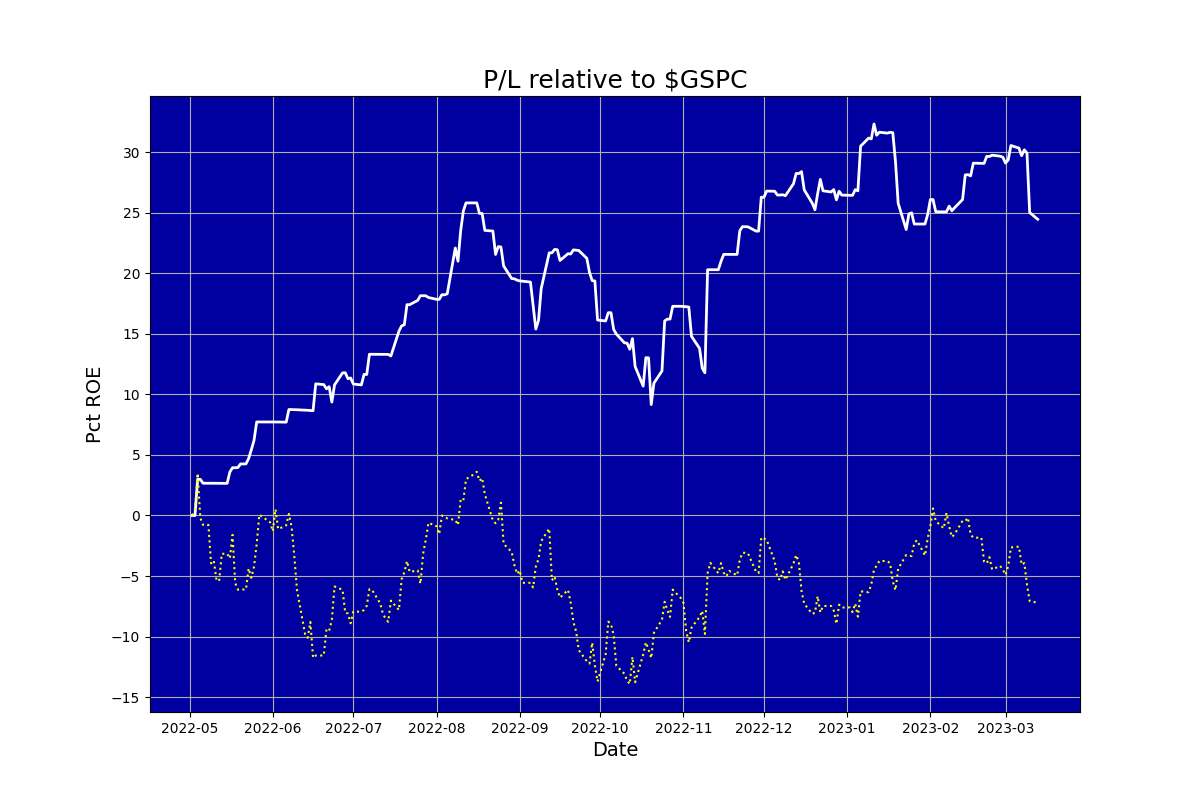
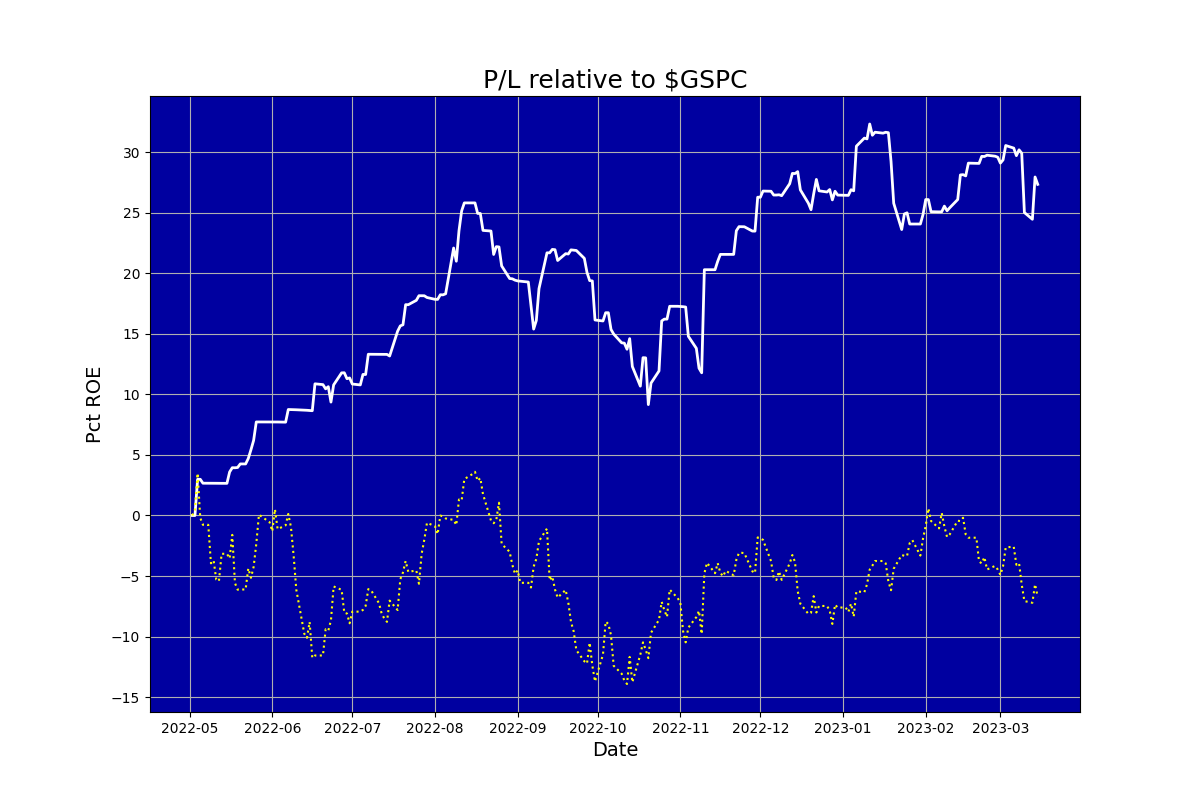
Updated

diff --git a/ig_report.html b/ig_report.html
@@ -1,1 +1,1 @@
-<html><body><center><h1>Auriel (never knowingly overbought)</h1></center><table cols=2><tr><td><img src=ig_pl.png></td><td><table cols=2><tr><td colspan=2><b><br>Snapshot</b></td></tr><tr><td>Last updated:&nbsp;&nbsp;&nbsp;</td><td>2023-03-13 18:05</td></tr><tr><td>Margin:&nbsp;&nbsp;&nbsp;</td><td>0.45</td></tr><tr><td>Cushion:&nbsp;&nbsp;&nbsp;</td><td>-9979.10</td></tr><tr><td>Last closed trade:&nbsp;&nbsp;&nbsp;</td><td>2023-03-13</td></tr><tr><td colspan=2><b><br>Positions</b></td></tr><tr><td>Mean days to new high:&nbsp;&nbsp;&nbsp;</td><td>11.16</td></tr><tr><td colspan=2><b><br>Trades</b></td></tr><tr><td>Traded days:&nbsp;&nbsp;&nbsp;</td><td>228</td></tr><tr><td>Profitable days pct:&nbsp;&nbsp;&nbsp;</td><td>36.40</td></tr><tr><td>Days beat S&P pct:&nbsp;&nbsp;&nbsp;</td><td>56.68</td></tr><tr><td>Profitable months pct:&nbsp;&nbsp;&nbsp;</td><td>72.73</td></tr><tr><td colspan=2><b><br>Performance</b></td></tr><tr><td>Pct median monthly ROE:&nbsp;&nbsp;&nbsp;</td><td>1.43</td></tr><tr><td>Pct annualised ROE:&nbsp;&nbsp;&nbsp;</td><td>26.82</td></tr><tr><td colspan=2><b><br>Risk</b></td></tr><tr><td>Volatility pct:&nbsp;&nbsp;&nbsp;</td><td>19.54</td></tr><tr><td>Benchmark volatility pct:&nbsp;&nbsp;&nbsp;</td><td>23.39</td></tr><tr><td>Sharpe ratio (RFR 5.0%):&nbsp;&nbsp;&nbsp;</td><td>1.21</td></tr><tr><td>Sortino ratio (RFR 5.0%):&nbsp;&nbsp;&nbsp;</td><td>1.73</td></tr><tr><td>Calmar ratio:&nbsp;&nbsp;&nbsp;</td><td>1.61</td></tr><tr><td>Worst drawdown pct:&nbsp;&nbsp;&nbsp;</td><td>-0.17</td></tr><tr><td>Recovery days from worst drawdown:&nbsp;&nbsp;&nbsp;</td><td>29.00</td></tr><tr><td>Beat benchmark +ve periods pct:&nbsp;&nbsp;&nbsp;</td><td>76.69</td></tr><tr><td>Beat benchmark -ve periods pct:&nbsp;&nbsp;&nbsp;</td><td>93.77</td></tr><tr><td>Correlation with benchmark:&nbsp;&nbsp;&nbsp;</td><td>0.38</td></tr></table></td></tr></table></body></html>
+<html><body><center><h1>Auriel (never knowingly overbought)</h1></center><table cols=2><tr><td><img src=ig_pl.png></td><td><table cols=2><tr><td colspan=2><b><br>Snapshot</b></td></tr><tr><td>Last updated:&nbsp;&nbsp;&nbsp;</td><td>2023-03-15 15:53</td></tr><tr><td>Margin:&nbsp;&nbsp;&nbsp;</td><td>0.31</td></tr><tr><td>Cushion:&nbsp;&nbsp;&nbsp;</td><td>-10009.99</td></tr><tr><td>Last closed trade:&nbsp;&nbsp;&nbsp;</td><td>2023-03-15</td></tr><tr><td colspan=2><b><br>Positions</b></td></tr><tr><td>Mean days to new high:&nbsp;&nbsp;&nbsp;</td><td>11.15</td></tr><tr><td colspan=2><b><br>Trades</b></td></tr><tr><td>Traded days:&nbsp;&nbsp;&nbsp;</td><td>230</td></tr><tr><td>Profitable days pct:&nbsp;&nbsp;&nbsp;</td><td>36.52</td></tr><tr><td>Days beat S&P pct:&nbsp;&nbsp;&nbsp;</td><td>57.08</td></tr><tr><td>Profitable months pct:&nbsp;&nbsp;&nbsp;</td><td>72.73</td></tr><tr><td colspan=2><b><br>Performance</b></td></tr><tr><td>Pct median monthly ROE:&nbsp;&nbsp;&nbsp;</td><td>1.43</td></tr><tr><td>Pct annualised ROE:&nbsp;&nbsp;&nbsp;</td><td>29.72</td></tr><tr><td colspan=2><b><br>Risk</b></td></tr><tr><td>Volatility pct:&nbsp;&nbsp;&nbsp;</td><td>19.79</td></tr><tr><td>Benchmark volatility pct:&nbsp;&nbsp;&nbsp;</td><td>23.39</td></tr><tr><td>Sharpe ratio (RFR 5.0%):&nbsp;&nbsp;&nbsp;</td><td>1.34</td></tr><tr><td>Sortino ratio (RFR 5.0%):&nbsp;&nbsp;&nbsp;</td><td>1.95</td></tr><tr><td>Calmar ratio:&nbsp;&nbsp;&nbsp;</td><td>1.78</td></tr><tr><td>Worst drawdown pct:&nbsp;&nbsp;&nbsp;</td><td>-0.17</td></tr><tr><td>Recovery days from worst drawdown:&nbsp;&nbsp;&nbsp;</td><td>29.00</td></tr><tr><td>Beat benchmark +ve periods pct:&nbsp;&nbsp;&nbsp;</td><td>76.77</td></tr><tr><td>Beat benchmark -ve periods pct:&nbsp;&nbsp;&nbsp;</td><td>93.71</td></tr><tr><td>Correlation with benchmark:&nbsp;&nbsp;&nbsp;</td><td>0.39</td></tr></table></td></tr></table></body></html>
